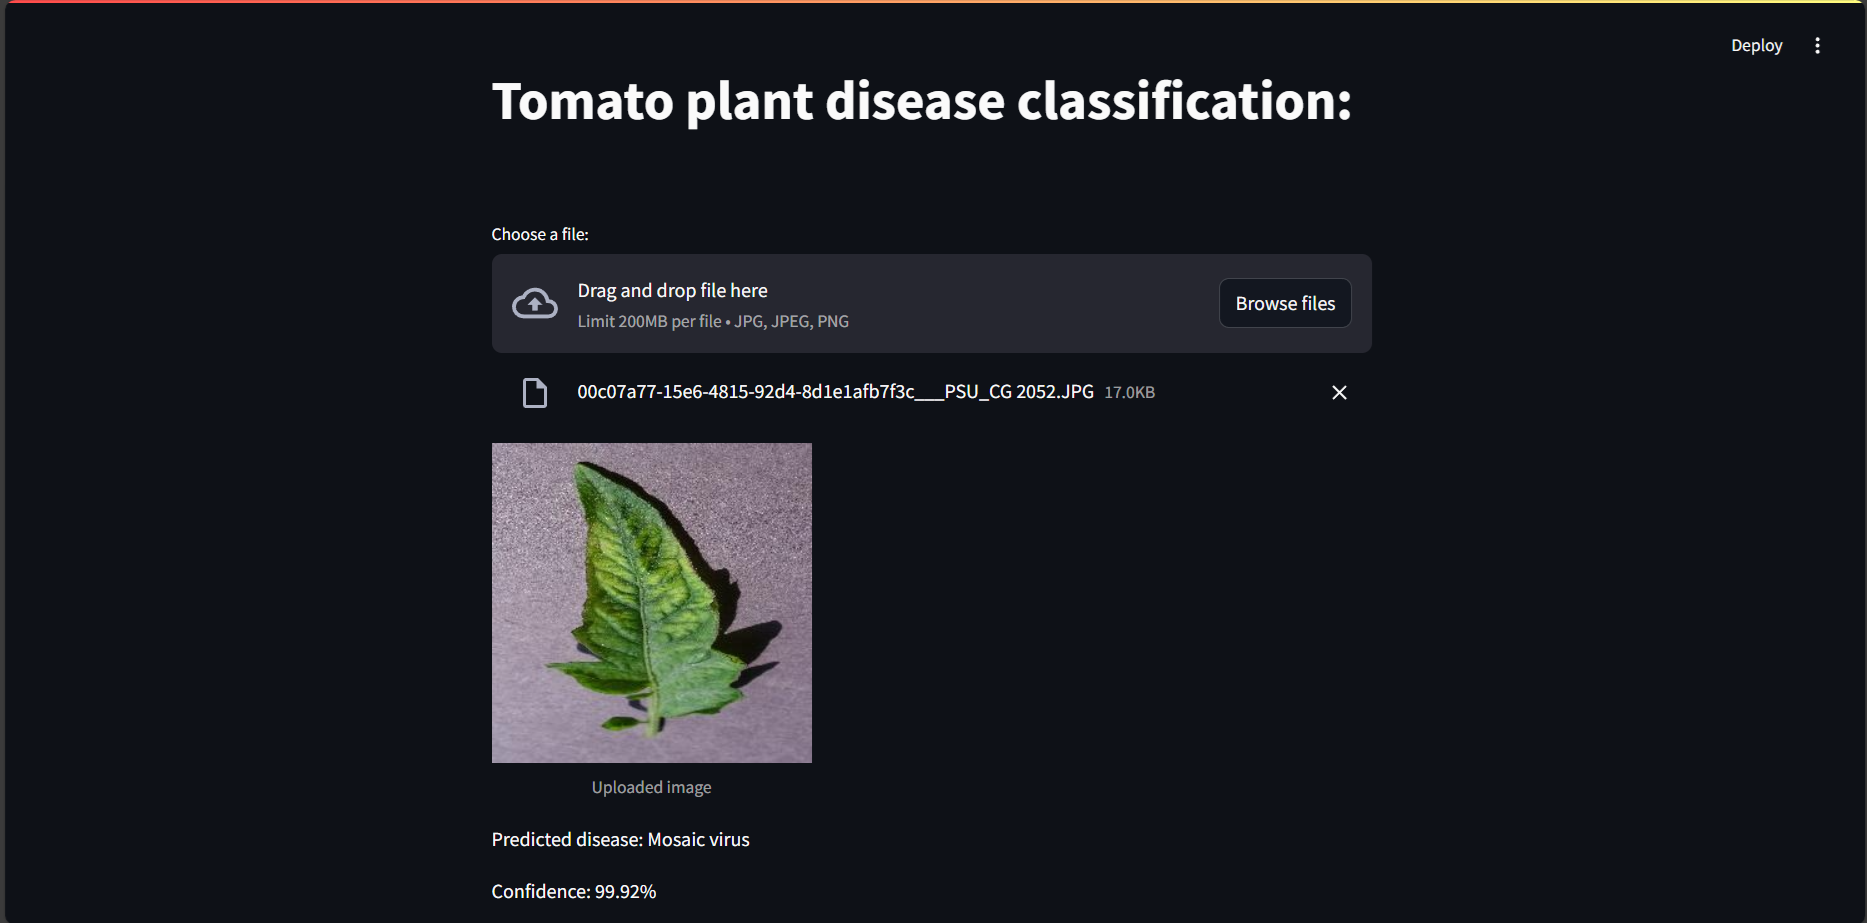
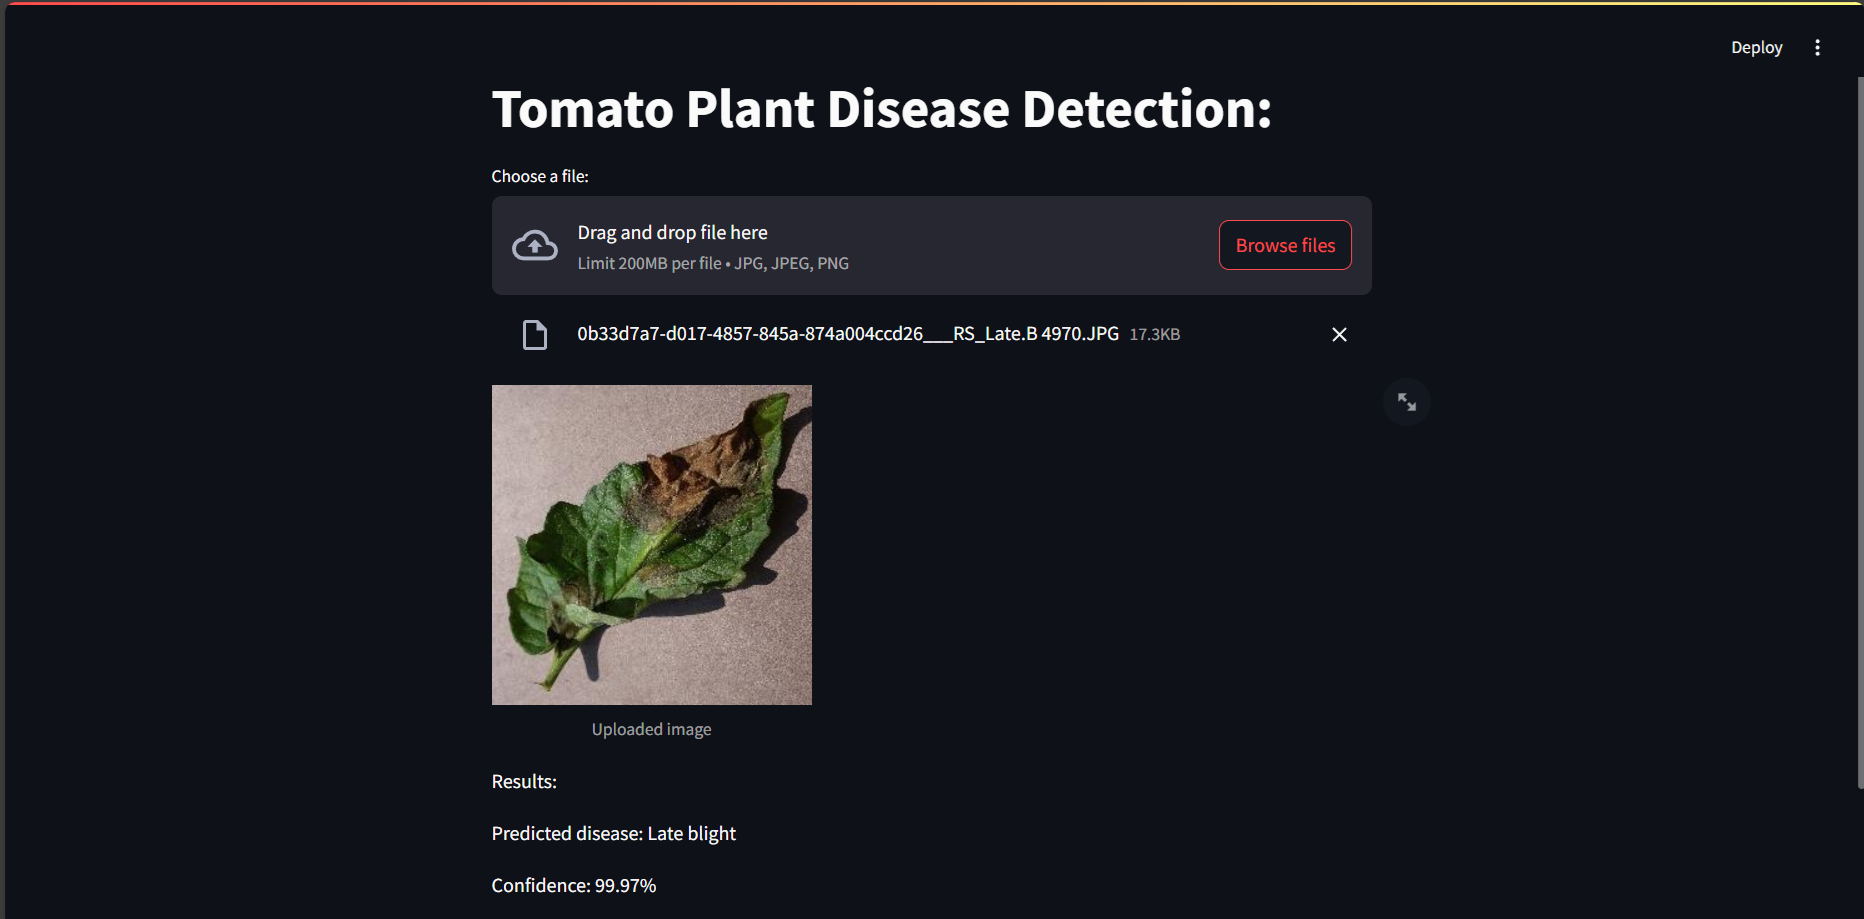
updated app.py

diff --git a/app.py b/app.py
@@ -24,13 +24,13 @@ def predict_image_class(image):
     return predicted_class, confidence
 
 
-st.title("Tomato plant disease classification:")
+st.title("Tomato Plant Disease Detection:")
 
 uploaded_file = st.file_uploader("Choose a file:", type=["jpg", "jpeg", "png"])
 
 if uploaded_file is not None:
     image = Image.open(uploaded_file)
-    st.image(image, caption='Uploaded image', use_column_width=True)
+    st.image(image, caption='Uploaded image')
     predicted_class, confidence = predict_image_class(image)
     st.write("Results:\n")
     st.write(f"Predicted disease: {predicted_class}")
